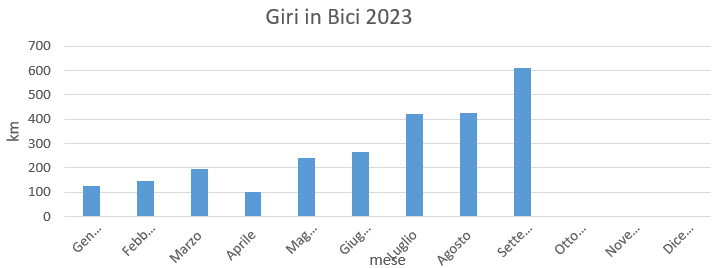
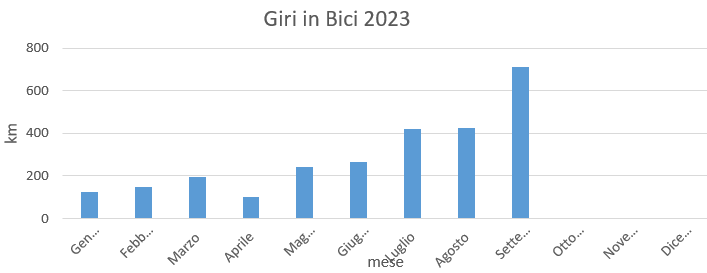
Add files via upload

diff --git a/Statistiche/Statistiche2023.html b/Statistiche/Statistiche2023.html
@@ -47,55 +47,55 @@
         <tr>
             <td>Gennaio</td>
             <td>127</td>
-            <td>5,00%</td>
+            <td>4,81%</td>
         </tr>
 
         <tr>
             <td>Febbraio</td>
             <td>148</td>
-            <td>5,83%</td>
+            <td>5,61%</td>
         </tr>
 
         <tr>
             <td>Marzo</td>
             <td>194</td>
-            <td>7,64%</td>
+            <td>7,35%</td>
         </tr>
 
         <tr>
             <td>Aprile</td>
             <td>103</td>
-            <td>4,06%</td>
+            <td>3,90%</td>
         </tr>
 
         <tr>
             <td>Maggio</td>
             <td>242</td>
-            <td>9,54%</td>
+            <td>9,17%</td>
         </tr>
 
         <tr>
             <td>Giugno</td>
             <td>265</td>
-            <td>10,44%</td>
+            <td>10,04%</td>
         </tr>
 
         <tr>
             <td>Luglio</td>
             <td>422</td>
-            <td>16,63%</td>
+            <td>15,99%</td>
         </tr>
 
         <tr>
             <td>Agosto</td>
             <td>426</td>
-            <td>16,78%</td>
+            <td>16,14%</td>
         </tr>
 
         <tr>
             <td>Settembre</td>
-            <td>611</td>
-            <td>24,07%</td>
+            <td>712</td>
+            <td>26,98%</td>
         </tr>
 
     </table>
@@ -106,10 +106,10 @@
 
     <br>
     <div class="colore">
-        <p>totale km 2.538
+        <p>totale km 2.639
             <img src="../Icone/traguardo.png">
         </p>
-        <p>km medi percorsi 61,90</p>
+        <p>km medi percorsi 62,83</p>
     </div>
     <br>
 

diff --git a/Statistiche.html b/Statistiche.html
@@ -83,7 +83,7 @@
             </td>
 
             <td>
-                21,50%
+                21,30%
             </td>
 
         </tr>
@@ -99,7 +99,7 @@
             </td>
 
             <td>
-                22,90%
+                22,70%
             </td>
         </tr>
 
@@ -113,7 +113,7 @@
             </td>
 
             <td>
-                33,40%
+                33,10%
             </td>
 
         </tr>
@@ -124,11 +124,11 @@
             </td>
 
             <td>
-                2.538
+                2.639
             </td>
 
             <td>
-                22,20%
+                22,90%
             </td>
 
         </tr>
@@ -158,11 +158,11 @@
 
     <div class="colore">
         <p>
-            totale km fatti 11.416
+            totale km fatti 11.517
             <img src="Icone/traguardo.png">
         </p>
 
-        <p>km medi percorsi 69,19 </p>
+        <p>km medi percorsi 69,38 </p>
 
     </div>
 

diff --git a/Estate/Estate2023.html b/Estate/Estate2023.html
@@ -276,6 +276,16 @@
             <td>km</td>
         </tr>
 
+        <tr>
+            <td>28 settembre</td>
+            <td>24</td>
+            <td><a
+                    href="https://www.komoot.com/it-it/tour/1327315572?ref=wtd&share_token=aTciRzhWJQAV3wFi5Fc7uL8sT1DCoJymnM7QglWqgs9dfy8gSR">
+                    Pinzano + Lago di Cornino </a></td>
+            <td>101</td>
+            <td>km</td>
+        </tr>
+
 
     </table>
 
@@ -287,10 +297,10 @@
     <br>
 
     <div class="colore">
-        <p> totale km 1.521
+        <p> totale km 1.622
             <img src="../Icone/traguardo.png">
         </p>
-        <p>km medi percorsi 66,13
+        <p>km medi percorsi 67,58
         </p>
     </div>
 </body>

diff --git a/Autunno_Inverno.html b/Autunno_Inverno.html
@@ -99,7 +99,7 @@
                 </td>
             </tr>
             
-            <!-- <tr>    
+            <tr>    
                 <td>
                     <input type="button" value="Autunno - Inverno 2023 / 2024" onclick="Autunno_Inverno2023_2024()">
                 </td>
@@ -107,7 +107,7 @@
                 <td>
                     0
                 </td>
-            </tr> -->
+            </tr>
 
         </table>
         

diff --git a/Giri.html b/Giri.html
@@ -242,11 +242,11 @@
     <br>
     <div class="colore">
         <p>
-            totale km fatti 11.416
+            totale km fatti 11.517
             <img src="Icone/traguardo.png">
         </p>
 
-        <p>km medi percorsi 69,19 </p>
+        <p>km medi percorsi 69,38 </p>
 
     </div>
 

diff --git a/Estate.html b/Estate.html
@@ -104,7 +104,7 @@
                 </td>
     
                 <td>
-                    1.521
+                    1.622
                 </td>
             </tr>
 
